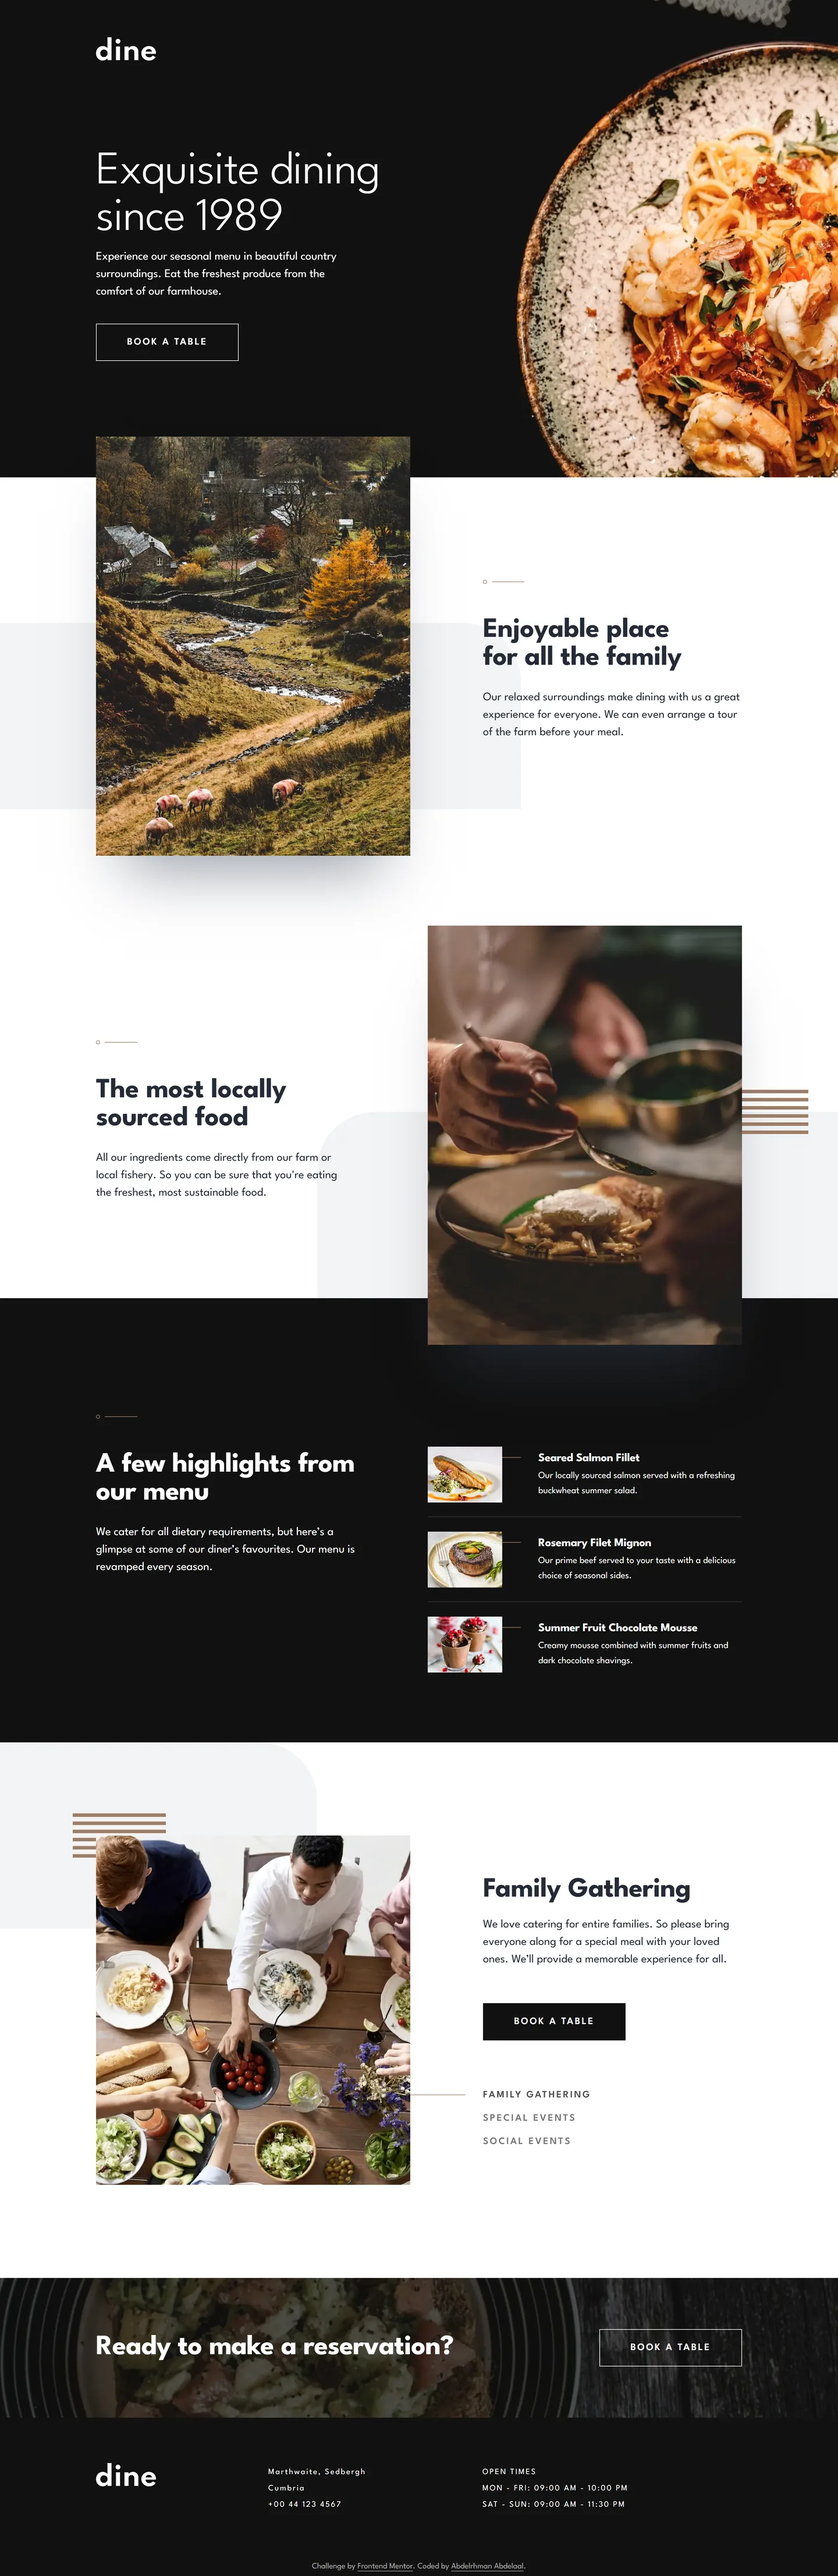
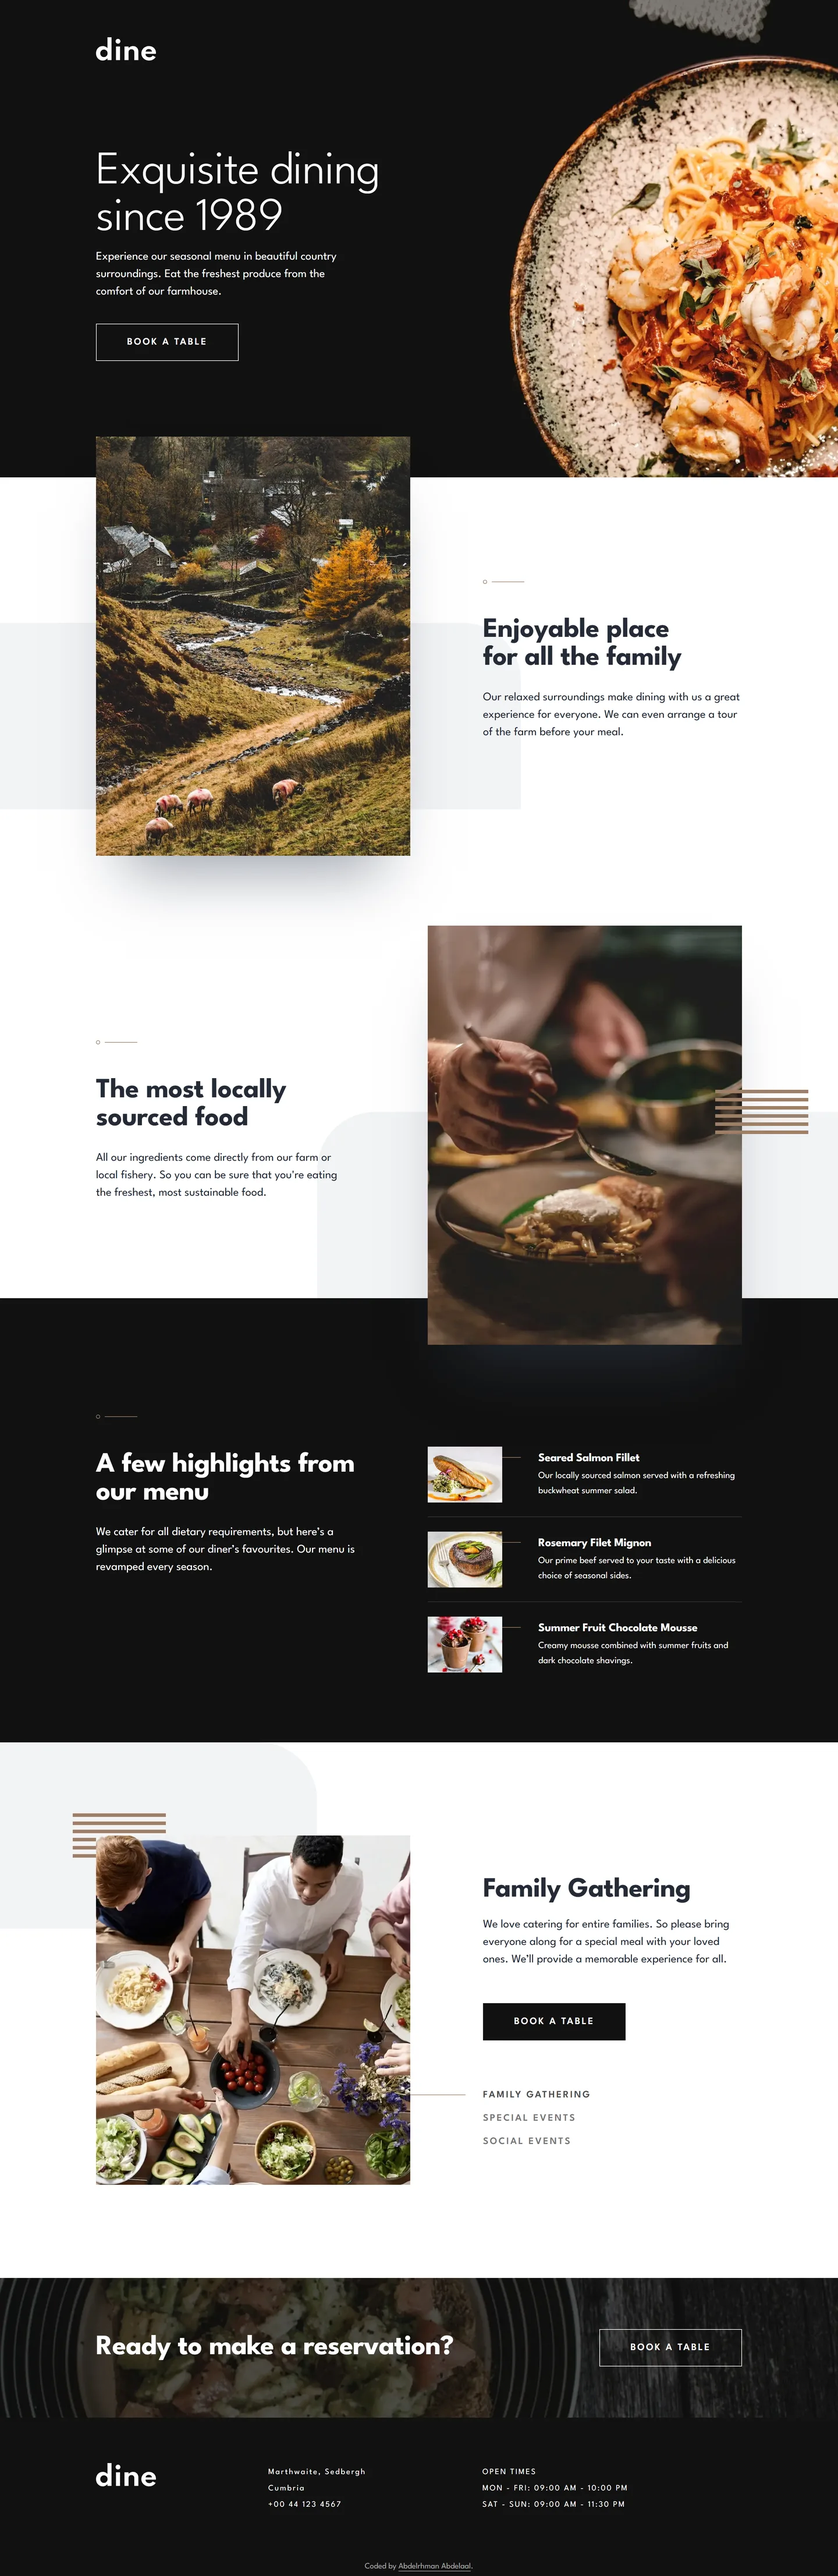
Remove Frontend Mentor attribution and retain only personal credit in Attribution component

diff --git a/src/components/layout/attribution.tsx b/src/components/layout/attribution.tsx
@@ -1,16 +1,7 @@
 export default function Attribution() {
   return (
     <p className="v-board text-center text-meta tracking-normal text-white/60">
-      Challenge by{" "}
-      <a
-        href="https://www.frontendmentor.io?ref=challenge"
-        target="_blank"
-        rel="noopener noreferrer"
-        className="underline underline-offset-4 hover:text-white"
-      >
-        Frontend Mentor
-      </a>
-      . Coded by{" "}
+      Coded by{" "}
       <a
         href="https://www.linkedin.com/in/abdelrhman-vanta/"
         target="_blank"
